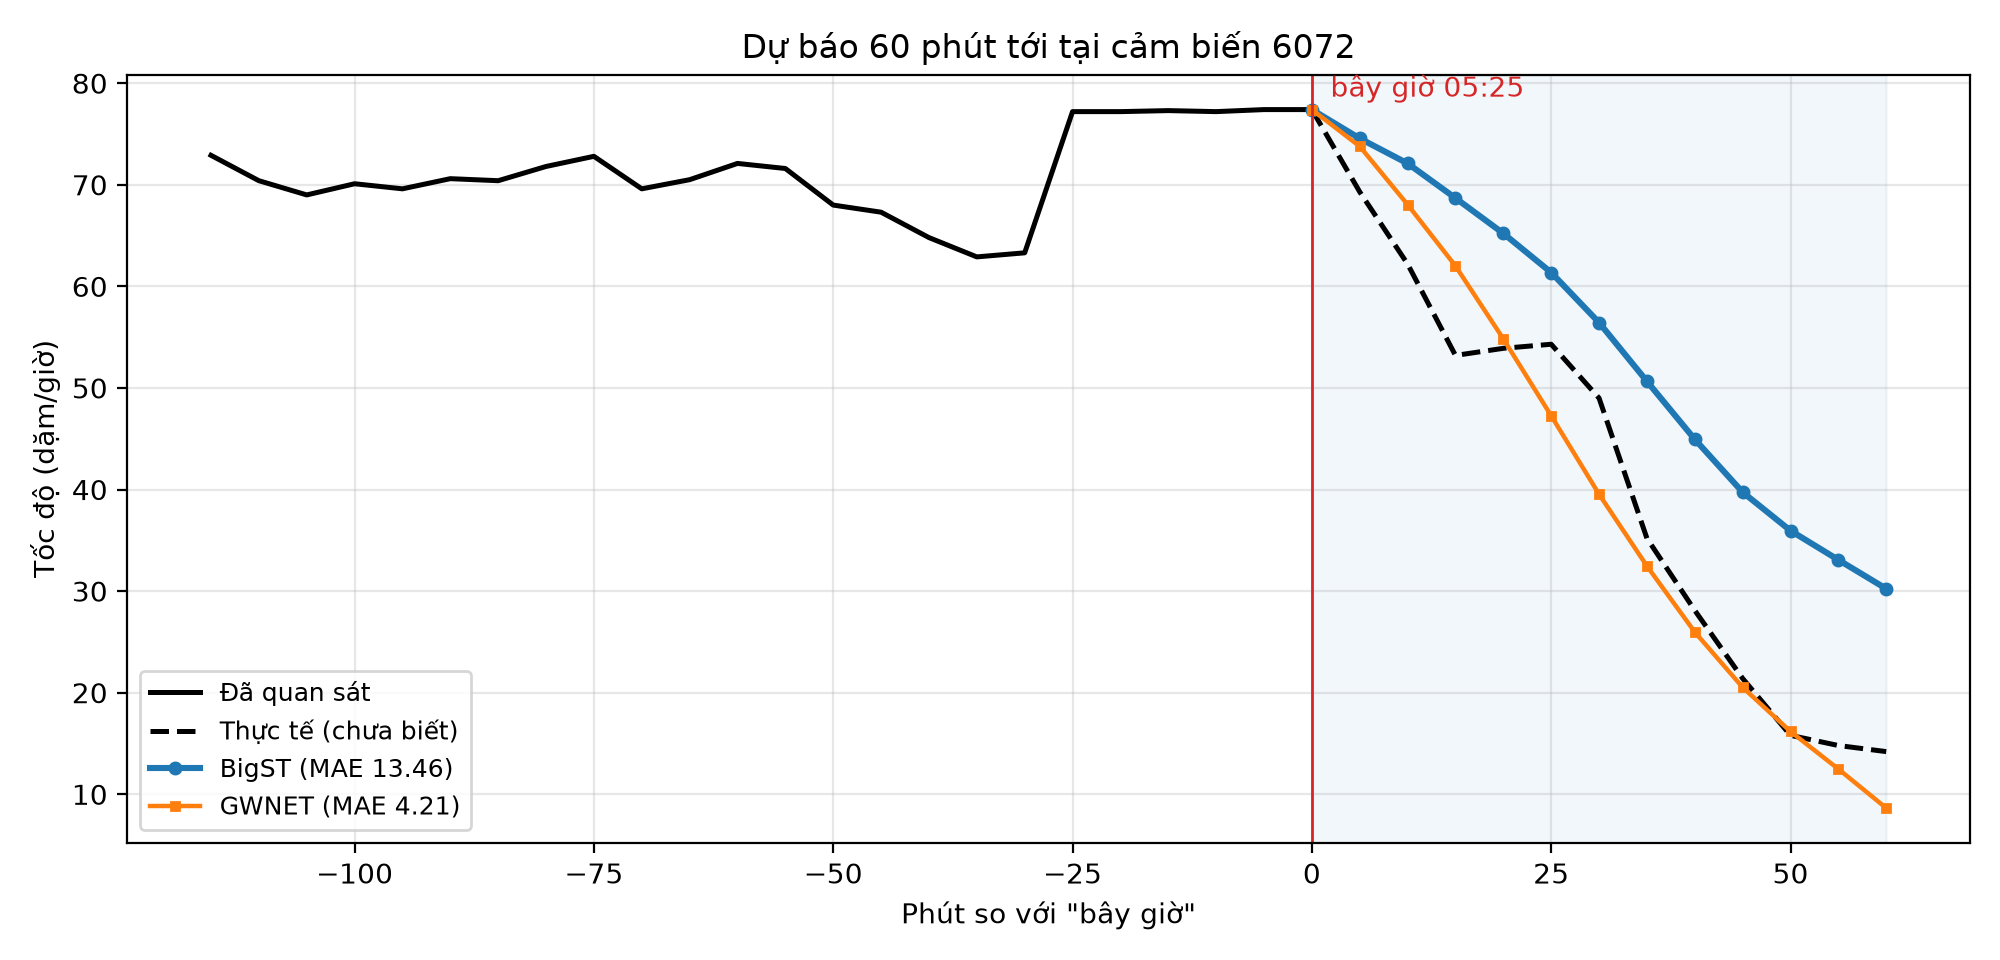
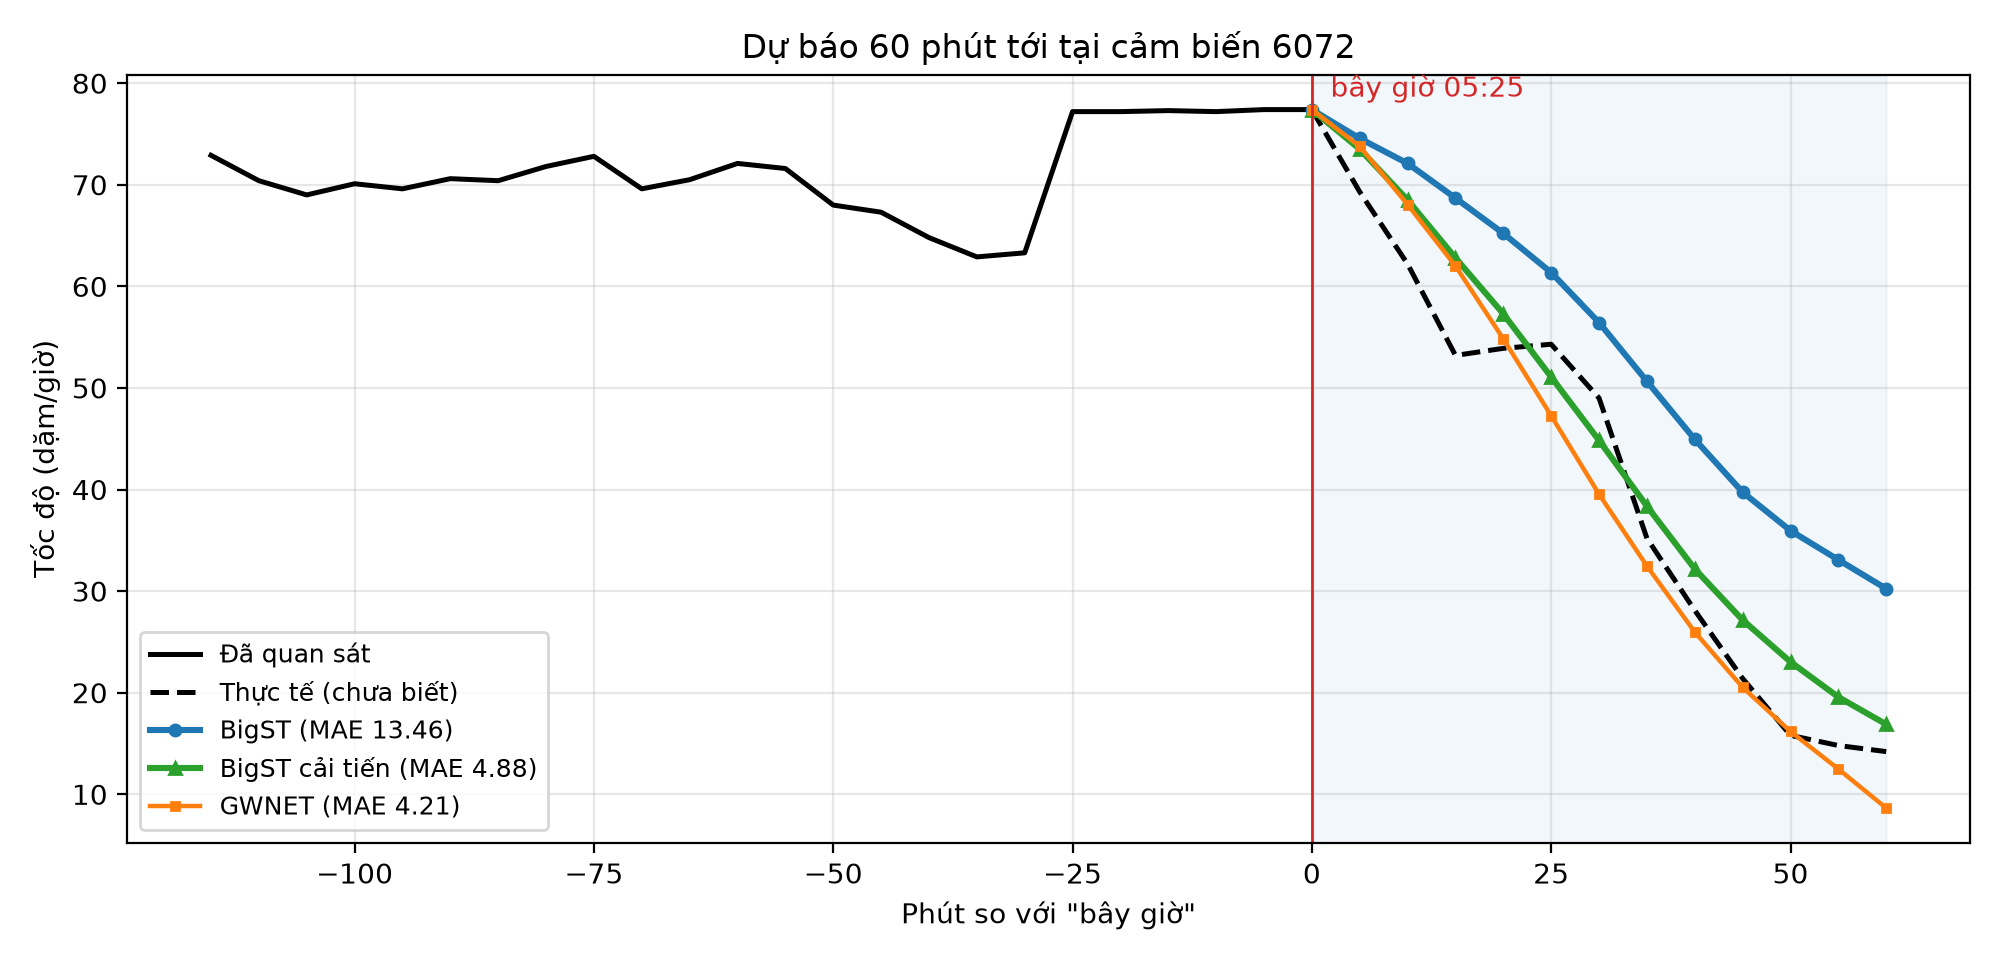
Đo chi phí bản cải tiến theo số nút (1.000–100.000 nút)

diff --git a/demo.py b/demo.py
@@ -12,6 +12,7 @@ import torch.nn.functional as F
 
 import util
 from model import BigST
+from model_cai_tien import BigSTCaiTien
 
 parser = argparse.ArgumentParser()
 parser.add_argument('--sensor', type=int, default=6072, help='mã cảm biến trong bộ California đầy đủ')
@@ -26,6 +27,8 @@ parser.add_argument('--adjdata', type=str, default='data/pems_sub1000/adj_pems.n
 parser.add_argument('--feat_path', type=str, default='data/pems_sub1000/features')
 parser.add_argument('--bigst_ckpt', type=str, default='checkpoint/bigst_B_BigST.pth')
 parser.add_argument('--gwnet_ckpt', type=str, default='checkpoint/GWNET.pth')
+parser.add_argument('--cai_tien_ckpt', type=str, default='checkpoint/bigst_C_AB.pth',
+                    help='checkpoint BigST cải tiến (A+B); bỏ qua nếu không có file')
 parser.add_argument('--min_t', type=int, default=2015)
 args = parser.parse_args()
 
@@ -165,6 +168,13 @@ bigst = BigST(cfg, supports, torch.nonzero(supports[0] > 0)).to(dev)
 bigst.load_state_dict(torch.load(args.bigst_ckpt, map_location=dev))
 bigst.eval()
 
+cai_tien = None
+if os.path.exists(args.cai_tien_ckpt):
+    cfg_ct = SimpleNamespace(**vars(cfg), local_graph=True, predict_delta=True, local_sparse=False)
+    cai_tien = BigSTCaiTien(cfg_ct, supports, torch.nonzero(supports[0] > 0)).to(dev)
+    cai_tien.load_state_dict(torch.load(args.cai_tien_ckpt, map_location=dev))
+    cai_tien.eval()
+
 gwnet = None
 if not args.no_gwnet:
     adj = np.load(args.adjdata).astype(np.float32)
@@ -194,6 +204,9 @@ def timed(fn, reps=20):
 
 yb, ms_b = timed(lambda: bigst(x.transpose(1, 2), f)[0])                        # (1, N, 12)
 pred_b = (yb[0] * std + mean).cpu().numpy()                                      # (N, 12)
+if cai_tien is not None:
+    yc, ms_c = timed(lambda: cai_tien(x.transpose(1, 2), f)[0])
+    pred_c = (yc[0] * std + mean).cpu().numpy()
 if gwnet is not None:
     yg, ms_g = timed(lambda: gwnet(x[..., :2].permute(0, 3, 2, 1))[..., 0].transpose(1, 2))
     pred_g = (yg[0] * std + mean).cpu().numpy()
@@ -206,22 +219,27 @@ print(f'Tốc độ 1 giờ vừa qua tại cảm biến {args.sensor} (dặm/gi
 past = raw[now - 11:now + 1, node]
 print('  ' + '  '.join(f'{v:5.1f}' for v in past))
 line('-')
-hdr = f'{"Sau":>7} {"Giờ":>6} {"Thực tế":>9} {"BigST":>8}' + (f' {"GWNET":>8}' if gwnet is not None else '') + f' {"Giữ nguyên":>11}'
+hdr = f'{"Sau":>7} {"Giờ":>6} {"Thực tế":>9} {"BigST":>8}' + (f' {"Cải tiến":>9}' if cai_tien is not None else '') + (f' {"GWNET":>8}' if gwnet is not None else '') + f' {"Giữ nguyên":>11}'
 print(hdr)
 for h in range(H):
     row = f'{(h + 1) * 5:>4} ph {clock(now + 1 + h):>6} {truth[h]:9.1f} {pred_b[node, h]:8.1f}'
+    if cai_tien is not None:
+        row += f' {pred_c[node, h]:9.1f}'
     if gwnet is not None:
         row += f' {pred_g[node, h]:8.1f}'
     print(row + f' {persist[h]:11.1f}')
 line('-')
 mae = lambda p: np.abs(p - truth).mean()
 print(f'MAE 60 phút tại cảm biến này : BigST {mae(pred_b[node]):.2f}'
+      + (f' | Cải tiến {mae(pred_c[node]):.2f}' if cai_tien is not None else '')
       + (f' | GWNET {mae(pred_g[node]):.2f}' if gwnet is not None else '')
       + f' | Giữ nguyên {mae(persist):.2f}')
 all_truth = raw[now + 1:now + 1 + H].T                                           # (N, 12)
 print(f'MAE trên cả {N} cảm biến     : BigST {np.abs(pred_b - all_truth).mean():.2f}'
+      + (f' | Cải tiến {np.abs(pred_c - all_truth).mean():.2f}' if cai_tien is not None else '')
       + (f' | GWNET {np.abs(pred_g - all_truth).mean():.2f}' if gwnet is not None else ''))
 print(f'Thời gian dự báo cả {N} cảm biến: BigST {ms_b:.1f} ms'
+      + (f' | Cải tiến {ms_c:.1f} ms' if cai_tien is not None else '')
       + (f' | GWNET {ms_g:.1f} ms' if gwnet is not None else '') + ' (trung bình 20 lần)')
 
 # ============================== 4. Hình ==============================
@@ -237,6 +255,9 @@ ax.plot(tx_h, hist, color='black', lw=1.8, label='Đã quan sát')
 ax.plot(np.r_[0, tx_f], np.r_[hist[-1], truth], color='black', lw=1.8, ls='--', label='Thực tế (chưa biết)')
 ax.plot(np.r_[0, tx_f], np.r_[hist[-1], pred_b[node]], color='tab:blue', lw=2.2, marker='o', ms=4,
         label=f'BigST (MAE {mae(pred_b[node]):.2f})')
+if cai_tien is not None:
+    ax.plot(np.r_[0, tx_f], np.r_[hist[-1], pred_c[node]], color='tab:green', lw=2.2, marker='^', ms=4,
+            label=f'BigST cải tiến (MAE {mae(pred_c[node]):.2f})')
 if gwnet is not None:
     ax.plot(np.r_[0, tx_f], np.r_[hist[-1], pred_g[node]], color='tab:orange', lw=1.6, marker='s', ms=3,
             label=f'GWNET (MAE {mae(pred_g[node]):.2f})')
